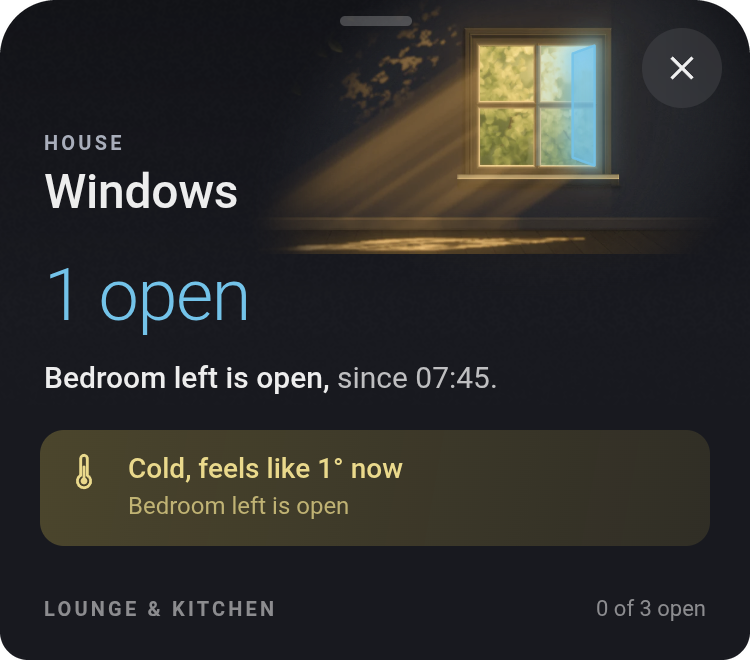
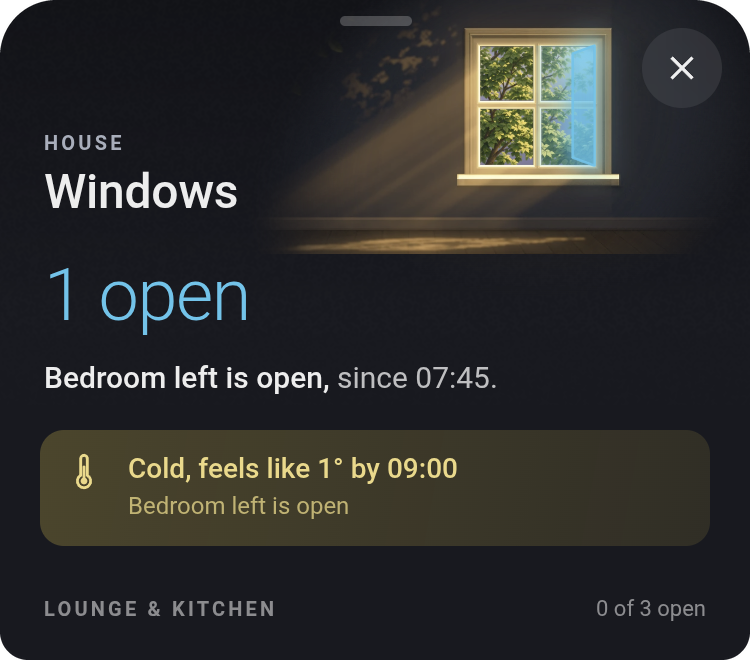
House window card: own foliage, softer cloud, bluer night (#5)
* House windows picture follows the weather

The whole-home windows pop-up now shows the weather through the tree
outside the window: sun through the leaves on a clear day, a grey room
under cloud, drops on the glass, snow on the sill and mist in fog. At
night the moon shows through the leaves only when the sky is clear. The
PVC frame takes the colour of the picture's light.

- Plate set 4 in dist/lamplight-windows/4/ (39 files, 268 KB).
- lampHeroWxPick and the layered hero in src/93-popup-glyphs.js.
- The pop-up reads the weather entity from the windows card.
- Docs text for the windows and pop-up pages.

* House window: own foliage, softer cloud, bluer night

The whole-home windows picture now uses a new, crisp foliage cut-out
with the weather's sky behind it, in place of the leaves taken from
the old painting.

- Cloud, rain and thunder: deep even green leaves with small, sharp
  gaps of sky, not a pale veil that looked like fog.
- Night: darker leaves against a bluer sky.
- Cloudy floor: the soft light on the boards is lit wood, not a grey
  wash.
- Plate set 7 in dist/lamplight-windows/7/ replaces set 4. A changed
  picture gets a new folder, because browsers keep a picture for 31
  days.
- New pictures of the whole-home windows popup in the docs.

---------

diff --git a/dist/lamplight.js b/dist/lamplight.js
@@ -1,4 +1,4 @@
-/* Lamplight Cards 1.0.1
+/* Lamplight Cards 1.1.2
    Built from src/. Do not edit this file; edit src/ and run build.sh. */
 (function () {
 'use strict';
@@ -13777,15 +13777,52 @@ const LAMP_HERO_FADE = { cx: 262, cy: 74, ax: 1.7, ay: 1.25, rot: Math.atan2(1, 
 const LAMP_HERO_FADE_LEAF = { cx: 164, cy: 64, a: 156, b: 172 };
 const LAMP_HERO_FADE_EASE = [[0, 1], [0.15, 0.97], [0.3, 0.88], [0.45, 0.72], [0.6, 0.5], [0.75, 0.27], [0.88, 0.1], [1, 0]];
 
+// The House picture with the weather (27 Nov 2026, option 6d of design-docs/windows_house_sky_options.html). Plate set 4
+// is plate set 3 taken apart (lamplight-build/tools/house_plates4_build.py), so that the weather changes its light:
+// - the glass: the plate's own leaves, toned by the weather, with the weather's light behind them; by day on a clear or
+//   fair sky the sun shines through. One file for each sky and light, named as the weather plates, so lampPlateChoose
+//   crossfades them as it does the skies;
+// - the room: sunlit on a clear sky, 60% sunlit on a fair sky, grey (soft, even light, no beams) under cloud, rain, snow
+//   and fog. By night the moonbeams draw only on a clear or fair sky. The frame is white paint in the picture's light,
+//   in its key: honey by day, peach under cloud, moon-blue by night;
+// - drops on the glass in rain and thunder, snow on the panes and the sill, mist in fog;
+// - by night the moon shows only where the light shows through the leaves (moon-mask.png), with a soft glow round it.
+// The elevation tint follows the sun's share: none under cloud. File px: glass 818-1012 x 75-277, marks 780-1054 x 45-311.
+const LAMP_HERO_WX_SET = '7';
+const LAMP_HERO_WX = { file: [1270, 423], glass: [818, 75, 194, 202], marks: [780, 45, 274, 266], sun: { clear: 1, fair: 0.6 },
+  mark: { rain: 'rain', thunder: 'rain', snow: 'snow', fog: 'fog' }, glow: 0.3 };
+function lampHeroWxPick(base, state, elev, night) {
+  const X = LAMP_HERO_WX, pick = lampPlateChoose(state, elev, base + 'glass/'), cond = pick.plate;
+  const sun = night ? 0 : (X.sun[cond] || 0), lit = !!X.sun[cond];
+  const rooms = night ? [base + 'room-night-' + (lit ? 'sun' : 'grey') + '.webp'] : sun >= 1 ? [base + 'room-day-sun.webp'] :
+    sun <= 0 ? [base + 'room-day-grey.webp'] : [base + 'room-day-grey.webp', base + 'room-day-sun.webp'];
+  const mk = X.mark[cond] ? base + 'marks-' + X.mark[cond] + '-' + (night ? 'night' : 'day') + '.webp' : null;
+  const mask = night && lit ? base + 'moon-mask.png' : null;
+  const files = [pick.urlA].concat(pick.urlB ? [pick.urlB] : [], rooms, mk ? [mk] : [], mask ? [mask] : []);
+  return { cond: cond, sun: sun, lit: lit, glassA: pick.urlA, glassB: pick.urlB, t: pick.t, rooms: rooms, marks: mk, mask: mask, files: files,
+    key: pick.key + '|' + rooms.join(',') + '|' + (mk || '') };
+}
+
 function lampHeroPlate(o) {
   const k = lampHeroKit(o), f = k.f, id = o.id, day = !o.night, W = o.W, P = LAMP_HERO_PLATE;
   const add = ' style="mix-blend-mode:plus-lighter"';
   const dx = W - P.width, sx = function (x) { return dx + x * P.scale; }, sy = function (y) { return y * P.scale; };
   const gx0 = sx(P.left), gx1 = sx(P.right), gy0 = sy(P.glassTop), gy1 = sy(P.midBar), gy2 = sy(P.glassFoot);
-  const im = '<image href="' + o.url + '" x="' + dx + '" y="0" width="' + P.width + '" height="' + P.height + '" preserveAspectRatio="none"/>';
+  let im = '<image href="' + o.url + '" x="' + dx + '" y="0" width="' + P.width + '" height="' + P.height + '" preserveAspectRatio="none"/>';
+  const X = LAMP_HERO_WX, wx = o.wx;
+  const wxX = function (x) { return dx + x * P.width / X.file[0]; }, wxY = function (y) { return y * P.height / X.file[1]; };
+  const box = function (href, r, op) {
+    return '<image href="' + href + '" x="' + f(wxX(r[0])) + '" y="' + f(wxY(r[1])) + '" width="' + f(r[2] * P.width / X.file[0]) + '" height="' + f(r[3] * P.height / X.file[1]) +
+      '" preserveAspectRatio="none"' + (op != null ? ' opacity="' + f(op) + '"' : '') + '/>';
+  };
+  if (wx) {
+    // The glass under the room; the room's glass is transparent but for the frame's shade on it.
+    const full = function (href, op) { return '<image href="' + href + '" x="' + dx + '" y="0" width="' + P.width + '" height="' + P.height + '" preserveAspectRatio="none"' + (op != null ? ' opacity="' + f(op) + '"' : '') + '/>'; };
+    im = box(wx.glassA, X.glass) + (wx.glassB ? box(wx.glassB, X.glass, wx.t) : '') + full(wx.rooms[0]) + (wx.rooms[1] ? full(wx.rooms[1], wx.sun) : '');
+  }
 
   let top = '', extra = '';
-  if (!day) {
+  if (!day && (!wx || wx.lit)) {
     // The moon: the same drawing as lampHeroSun's, in the plate's right panes. The plate holds no moon.
     const dX = gx0 + (gx1 - gx0) * 0.55, dY = gy1 - (gy1 - gy0) * (0.3 + 0.4 * Math.sin(Math.PI * Math.max(0, Math.min(1, o.frac))));
     const r = P.moon, rs = r + 0.3, phase = o.phase == null ? 1 : o.phase, ex = rs * Math.abs(1 - 2 * phase);
@@ -13796,6 +13833,15 @@ function lampHeroPlate(o) {
       '<circle cx="' + f(dX) + '" cy="' + f(dY) + '" r="' + r + '" fill="rgb(' + LAMP_HERO_SILVER + ')"/>' +
       (phase < 0.995 ? '<path' + turn + ' d="M' + f(dX) + ' ' + f(dY - rs) + 'A' + rs + ' ' + rs + ' 0 0 1 ' + f(dX) + ' ' + f(dY + rs) +
         'A' + f(Math.max(ex, 0.01)) + ' ' + rs + ' 0 0 ' + (phase < 0.5 ? 1 : 0) + ' ' + f(dX) + ' ' + f(dY - rs) + 'Z" fill="rgb(' + P.nightSky + ')" fill-opacity=".96"/>' : '');
+    if (wx && wx.mask) {
+      // Behind the leaves the moon shows only through the gaps; its light glows over the leaves round it.
+      const g = X.glass, gx = wxX(g[0]), gy = wxY(g[1]), gw = g[2] * P.width / X.file[0], gh = g[3] * P.height / X.file[1];
+      extra += '<mask id="' + id + 'mm" maskUnits="userSpaceOnUse" x="0" y="0" width="' + W + '" height="' + P.height + '">' + box(wx.mask, g) + '</mask>' +
+        '<clipPath id="' + id + 'mg"><rect x="' + f(gx) + '" y="' + f(gy) + '" width="' + f(gw) + '" height="' + f(gh) + '"/></clipPath>' +
+        '<radialGradient id="' + id + 'mb"><stop offset="0" stop-color="rgb(180,204,240)" stop-opacity="1"/><stop offset="1" stop-color="rgb(180,204,240)" stop-opacity="0"/></radialGradient>';
+      top = '<g clip-path="url(#' + id + 'mg)"><circle cx="' + f(dX) + '" cy="' + f(dY) + '" r="14" fill="url(#' + id + 'mb)" fill-opacity="' + f(X.glow * Math.max(0.3, phase) * (wx.cond === 'clear' ? 1 : 0.6)) + '"' + add + '/></g>' +
+        '<g mask="url(#' + id + 'mm)">' + top + '</g>';
+    }
   }
   if (o.open) {
     // The open casement over the right panes: open-blue glass, and a glowing outline.
@@ -13808,7 +13854,7 @@ function lampHeroPlate(o) {
   let tint = '';
   if (day) {
     const up = Math.max(0, Math.min(60, o.elev || 0)) / 60, e = o.elev || 0;
-    const t = Math.min(1, Math.abs(e - P.sunElev) / 18) * (e < P.sunElev ? 0.8 : 0.45);
+    const t = Math.min(1, Math.abs(e - P.sunElev) / 18) * (e < P.sunElev ? 0.8 : 0.45) * (wx ? wx.sun : 1);
     if (t > 0.01) {
       extra += '<mask id="' + id + 'tm" maskUnits="userSpaceOnUse" x="0" y="0" width="' + W + '" height="' + P.height + '">' + im + '</mask>';
       tint = '<rect x="0" y="0" width="' + W + '" height="' + P.height + '" fill="rgb(' + lampArcAt(LAMP_HERO_SUN_GLASS, up) + ')" fill-opacity="' + f(t) +
@@ -13866,7 +13912,8 @@ function lampHeroPlate(o) {
   const satv = +(P.saturate * (1 - (1 - P.sunsetSat) * sunK)).toFixed(3);
   const calm = satv !== 1;
   if (calm) extra += '<filter id="' + id + 'ps" filterUnits="userSpaceOnUse" x="0" y="0" width="' + W + '" height="' + P.height + '" color-interpolation-filters="sRGB"><feColorMatrix type="saturate" values="' + satv + '"/></filter>';
-  const svg = k.svg(k.defs(extra) + '<g mask="url(#' + id + 'tf)"><g' + (calm ? ' filter="url(#' + id + 'ps)"' : '') + ' style="isolation:isolate">' + im + tint + '</g></g>' + top);
+  const marks = wx && wx.marks ? box(wx.marks, X.marks) : '';
+  const svg = k.svg(k.defs(extra) + '<g mask="url(#' + id + 'tf)"><g' + (calm ? ' filter="url(#' + id + 'ps)"' : '') + ' style="isolation:isolate">' + im + tint + marks + '</g></g>' + top);
   return { svg: svg, x: sx(P.windowX), y: 60, at: day ? '255,214,160' : '150,178,235' };
 }
 
@@ -14285,6 +14332,10 @@ class LampPopup extends HTMLElement {
     this._heroPlates = this._hero && (this._hero.form === 'sun' || this._hero.form === 'panes') ? plates : null;
     // Load both now, so that the first opening of the sheet does not show the drawing first.
     if (this._heroPlates) { lampHeroImage(this._heroPlates.day); lampHeroImage(this._heroPlates.night); }
+    // The House picture with the weather (option 6d, see LAMP_HERO_WX in 93-popup-glyphs.js): only with the cards' own
+    // plates. Header images of one's own keep the plain day and night picture.
+    this._heroWx = this._hero && this._hero.form === 'sun' && hp === undefined ? LAMP_SKY_BASE + 'lamplight-windows/' + LAMP_HERO_WX_SET + '/' : null;
+    if (this._heroWx) ['room-day-sun.webp', 'room-day-grey.webp', 'room-night-sun.webp', 'room-night-grey.webp'].forEach((n) => lampHeroImage(this._heroWx + n));
     this._heroKey = null;
     this._heroData = null;
     this._heroBusy = false;
@@ -14760,12 +14811,24 @@ class LampPopup extends HTMLElement {
           : 'e' + Math.round(elev * 2);
         const plate = this._heroPlates ? (night ? this._heroPlates.night : this._heroPlates.day) : null;
         if (plate && !this._onPlate) this._onPlate = () => { this._heroKey = null; if (this._open) this._paintHero(); };
+        // The weather (27 Nov 2026, option 6d of design-docs/windows_house_sky_options.html): the House card's weather
+        // entity gives the sky; the picture's light, glass and marks follow it. While its files load, the plain plate draws.
+        let wx = null;
+        if (this._heroWx) {
+          const wxId = this._config.weather || c.weather || Object.keys(hass.states).filter((id) => id.indexOf('weather.') === 0)[0];
+          const ws = wxId ? hass.states[wxId] : null;
+          if (ws) {
+            wx = lampHeroWxPick(this._heroWx, ws.state, Math.round(elev * 2) / 2, night);
+            const all = wx.files.map((u) => lampHeroImage(u, this._onPlate));
+            if (all.indexOf(false) >= 0) wx = null;
+          }
+        }
         const painted = plate ? lampHeroImage(plate, this._onPlate) : false;
         const tEnd = Math.round(this._titleEnd()), text = this._textInk();
         const ink = text.map((b) => [b.l, b.r, b.t, b.b].map(Math.round).join(',')).join(';');
-        key = [W, left, 'sun', night ? 1 : 0, step, open ? 1 : 0, painted ? plate + '|' + ink : ''].join('|');
+        key = [W, left, 'sun', night ? 1 : 0, step, open ? 1 : 0, painted ? plate + '|' + ink : '', wx ? wx.key : ''].join('|');
         const light = { frac: frac, elev: elev, night: night, open: open, phase: moon.phase, waning: moon.waning };
-        make = painted ? () => lampHeroPlate(Object.assign(o, light, { url: plate, tEnd: tEnd, text: text })) : () => lampHeroSun(Object.assign(o, light));
+        make = painted ? () => lampHeroPlate(Object.assign(o, light, { url: plate, tEnd: tEnd, text: text, wx: wx })) : () => lampHeroSun(Object.assign(o, light));
       }
     }
     if (key === this._heroKey) return;
@@ -18661,5 +18724,5 @@ function lampApplyTheme(el, config) {
   Card.prototype._lampThemeHook = true;
 });
 
-console.info('%c LAMPLIGHT %c 1.0.1 ', 'background:#231a12;color:#ffb35c;border-radius:3px 0 0 3px', 'background:#ffb35c;color:#231a12;border-radius:0 3px 3px 0');
+console.info('%c LAMPLIGHT %c 1.1.2 ', 'background:#231a12;color:#ffb35c;border-radius:3px 0 0 3px', 'background:#ffb35c;color:#231a12;border-radius:0 3px 3px 0');
 })();

diff --git a/src/93-popup-glyphs.js b/src/93-popup-glyphs.js
@@ -1488,15 +1488,52 @@ const LAMP_HERO_FADE = { cx: 262, cy: 74, ax: 1.7, ay: 1.25, rot: Math.atan2(1, 
 const LAMP_HERO_FADE_LEAF = { cx: 164, cy: 64, a: 156, b: 172 };
 const LAMP_HERO_FADE_EASE = [[0, 1], [0.15, 0.97], [0.3, 0.88], [0.45, 0.72], [0.6, 0.5], [0.75, 0.27], [0.88, 0.1], [1, 0]];
 
+// The House picture with the weather (27 Nov 2026, option 6d of design-docs/windows_house_sky_options.html). Plate set 4
+// is plate set 3 taken apart (lamplight-build/tools/house_plates4_build.py), so that the weather changes its light:
+// - the glass: the plate's own leaves, toned by the weather, with the weather's light behind them; by day on a clear or
+//   fair sky the sun shines through. One file for each sky and light, named as the weather plates, so lampPlateChoose
+//   crossfades them as it does the skies;
+// - the room: sunlit on a clear sky, 60% sunlit on a fair sky, grey (soft, even light, no beams) under cloud, rain, snow
+//   and fog. By night the moonbeams draw only on a clear or fair sky. The frame is white paint in the picture's light,
+//   in its key: honey by day, peach under cloud, moon-blue by night;
+// - drops on the glass in rain and thunder, snow on the panes and the sill, mist in fog;
+// - by night the moon shows only where the light shows through the leaves (moon-mask.png), with a soft glow round it.
+// The elevation tint follows the sun's share: none under cloud. File px: glass 818-1012 x 75-277, marks 780-1054 x 45-311.
+const LAMP_HERO_WX_SET = '7';
+const LAMP_HERO_WX = { file: [1270, 423], glass: [818, 75, 194, 202], marks: [780, 45, 274, 266], sun: { clear: 1, fair: 0.6 },
+  mark: { rain: 'rain', thunder: 'rain', snow: 'snow', fog: 'fog' }, glow: 0.3 };
+function lampHeroWxPick(base, state, elev, night) {
+  const X = LAMP_HERO_WX, pick = lampPlateChoose(state, elev, base + 'glass/'), cond = pick.plate;
+  const sun = night ? 0 : (X.sun[cond] || 0), lit = !!X.sun[cond];
+  const rooms = night ? [base + 'room-night-' + (lit ? 'sun' : 'grey') + '.webp'] : sun >= 1 ? [base + 'room-day-sun.webp'] :
+    sun <= 0 ? [base + 'room-day-grey.webp'] : [base + 'room-day-grey.webp', base + 'room-day-sun.webp'];
+  const mk = X.mark[cond] ? base + 'marks-' + X.mark[cond] + '-' + (night ? 'night' : 'day') + '.webp' : null;
+  const mask = night && lit ? base + 'moon-mask.png' : null;
+  const files = [pick.urlA].concat(pick.urlB ? [pick.urlB] : [], rooms, mk ? [mk] : [], mask ? [mask] : []);
+  return { cond: cond, sun: sun, lit: lit, glassA: pick.urlA, glassB: pick.urlB, t: pick.t, rooms: rooms, marks: mk, mask: mask, files: files,
+    key: pick.key + '|' + rooms.join(',') + '|' + (mk || '') };
+}
+
 function lampHeroPlate(o) {
   const k = lampHeroKit(o), f = k.f, id = o.id, day = !o.night, W = o.W, P = LAMP_HERO_PLATE;
   const add = ' style="mix-blend-mode:plus-lighter"';
   const dx = W - P.width, sx = function (x) { return dx + x * P.scale; }, sy = function (y) { return y * P.scale; };
   const gx0 = sx(P.left), gx1 = sx(P.right), gy0 = sy(P.glassTop), gy1 = sy(P.midBar), gy2 = sy(P.glassFoot);
-  const im = '<image href="' + o.url + '" x="' + dx + '" y="0" width="' + P.width + '" height="' + P.height + '" preserveAspectRatio="none"/>';
+  let im = '<image href="' + o.url + '" x="' + dx + '" y="0" width="' + P.width + '" height="' + P.height + '" preserveAspectRatio="none"/>';
+  const X = LAMP_HERO_WX, wx = o.wx;
+  const wxX = function (x) { return dx + x * P.width / X.file[0]; }, wxY = function (y) { return y * P.height / X.file[1]; };
+  const box = function (href, r, op) {
+    return '<image href="' + href + '" x="' + f(wxX(r[0])) + '" y="' + f(wxY(r[1])) + '" width="' + f(r[2] * P.width / X.file[0]) + '" height="' + f(r[3] * P.height / X.file[1]) +
+      '" preserveAspectRatio="none"' + (op != null ? ' opacity="' + f(op) + '"' : '') + '/>';
+  };
+  if (wx) {
+    // The glass under the room; the room's glass is transparent but for the frame's shade on it.
+    const full = function (href, op) { return '<image href="' + href + '" x="' + dx + '" y="0" width="' + P.width + '" height="' + P.height + '" preserveAspectRatio="none"' + (op != null ? ' opacity="' + f(op) + '"' : '') + '/>'; };
+    im = box(wx.glassA, X.glass) + (wx.glassB ? box(wx.glassB, X.glass, wx.t) : '') + full(wx.rooms[0]) + (wx.rooms[1] ? full(wx.rooms[1], wx.sun) : '');
+  }
 
   let top = '', extra = '';
-  if (!day) {
+  if (!day && (!wx || wx.lit)) {
     // The moon: the same drawing as lampHeroSun's, in the plate's right panes. The plate holds no moon.
     const dX = gx0 + (gx1 - gx0) * 0.55, dY = gy1 - (gy1 - gy0) * (0.3 + 0.4 * Math.sin(Math.PI * Math.max(0, Math.min(1, o.frac))));
     const r = P.moon, rs = r + 0.3, phase = o.phase == null ? 1 : o.phase, ex = rs * Math.abs(1 - 2 * phase);
@@ -1507,6 +1544,15 @@ function lampHeroPlate(o) {
       '<circle cx="' + f(dX) + '" cy="' + f(dY) + '" r="' + r + '" fill="rgb(' + LAMP_HERO_SILVER + ')"/>' +
       (phase < 0.995 ? '<path' + turn + ' d="M' + f(dX) + ' ' + f(dY - rs) + 'A' + rs + ' ' + rs + ' 0 0 1 ' + f(dX) + ' ' + f(dY + rs) +
         'A' + f(Math.max(ex, 0.01)) + ' ' + rs + ' 0 0 ' + (phase < 0.5 ? 1 : 0) + ' ' + f(dX) + ' ' + f(dY - rs) + 'Z" fill="rgb(' + P.nightSky + ')" fill-opacity=".96"/>' : '');
+    if (wx && wx.mask) {
+      // Behind the leaves the moon shows only through the gaps; its light glows over the leaves round it.
+      const g = X.glass, gx = wxX(g[0]), gy = wxY(g[1]), gw = g[2] * P.width / X.file[0], gh = g[3] * P.height / X.file[1];
+      extra += '<mask id="' + id + 'mm" maskUnits="userSpaceOnUse" x="0" y="0" width="' + W + '" height="' + P.height + '">' + box(wx.mask, g) + '</mask>' +
+        '<clipPath id="' + id + 'mg"><rect x="' + f(gx) + '" y="' + f(gy) + '" width="' + f(gw) + '" height="' + f(gh) + '"/></clipPath>' +
+        '<radialGradient id="' + id + 'mb"><stop offset="0" stop-color="rgb(180,204,240)" stop-opacity="1"/><stop offset="1" stop-color="rgb(180,204,240)" stop-opacity="0"/></radialGradient>';
+      top = '<g clip-path="url(#' + id + 'mg)"><circle cx="' + f(dX) + '" cy="' + f(dY) + '" r="14" fill="url(#' + id + 'mb)" fill-opacity="' + f(X.glow * Math.max(0.3, phase) * (wx.cond === 'clear' ? 1 : 0.6)) + '"' + add + '/></g>' +
+        '<g mask="url(#' + id + 'mm)">' + top + '</g>';
+    }
   }
   if (o.open) {
     // The open casement over the right panes: open-blue glass, and a glowing outline.
@@ -1519,7 +1565,7 @@ function lampHeroPlate(o) {
   let tint = '';
   if (day) {
     const up = Math.max(0, Math.min(60, o.elev || 0)) / 60, e = o.elev || 0;
-    const t = Math.min(1, Math.abs(e - P.sunElev) / 18) * (e < P.sunElev ? 0.8 : 0.45);
+    const t = Math.min(1, Math.abs(e - P.sunElev) / 18) * (e < P.sunElev ? 0.8 : 0.45) * (wx ? wx.sun : 1);
     if (t > 0.01) {
       extra += '<mask id="' + id + 'tm" maskUnits="userSpaceOnUse" x="0" y="0" width="' + W + '" height="' + P.height + '">' + im + '</mask>';
       tint = '<rect x="0" y="0" width="' + W + '" height="' + P.height + '" fill="rgb(' + lampArcAt(LAMP_HERO_SUN_GLASS, up) + ')" fill-opacity="' + f(t) +
@@ -1577,7 +1623,8 @@ function lampHeroPlate(o) {
   const satv = +(P.saturate * (1 - (1 - P.sunsetSat) * sunK)).toFixed(3);
   const calm = satv !== 1;
   if (calm) extra += '<filter id="' + id + 'ps" filterUnits="userSpaceOnUse" x="0" y="0" width="' + W + '" height="' + P.height + '" color-interpolation-filters="sRGB"><feColorMatrix type="saturate" values="' + satv + '"/></filter>';
-  const svg = k.svg(k.defs(extra) + '<g mask="url(#' + id + 'tf)"><g' + (calm ? ' filter="url(#' + id + 'ps)"' : '') + ' style="isolation:isolate">' + im + tint + '</g></g>' + top);
+  const marks = wx && wx.marks ? box(wx.marks, X.marks) : '';
+  const svg = k.svg(k.defs(extra) + '<g mask="url(#' + id + 'tf)"><g' + (calm ? ' filter="url(#' + id + 'ps)"' : '') + ' style="isolation:isolate">' + im + tint + marks + '</g></g>' + top);
   return { svg: svg, x: sx(P.windowX), y: 60, at: day ? '255,214,160' : '150,178,235' };
 }
 

diff --git a/src/94-popup.js b/src/94-popup.js
@@ -135,6 +135,10 @@ class LampPopup extends HTMLElement {
     this._heroPlates = this._hero && (this._hero.form === 'sun' || this._hero.form === 'panes') ? plates : null;
     // Load both now, so that the first opening of the sheet does not show the drawing first.
     if (this._heroPlates) { lampHeroImage(this._heroPlates.day); lampHeroImage(this._heroPlates.night); }
+    // The House picture with the weather (option 6d, see LAMP_HERO_WX in 93-popup-glyphs.js): only with the cards' own
+    // plates. Header images of one's own keep the plain day and night picture.
+    this._heroWx = this._hero && this._hero.form === 'sun' && hp === undefined ? LAMP_SKY_BASE + 'lamplight-windows/' + LAMP_HERO_WX_SET + '/' : null;
+    if (this._heroWx) ['room-day-sun.webp', 'room-day-grey.webp', 'room-night-sun.webp', 'room-night-grey.webp'].forEach((n) => lampHeroImage(this._heroWx + n));
     this._heroKey = null;
     this._heroData = null;
     this._heroBusy = false;
@@ -610,12 +614,24 @@ class LampPopup extends HTMLElement {
           : 'e' + Math.round(elev * 2);
         const plate = this._heroPlates ? (night ? this._heroPlates.night : this._heroPlates.day) : null;
         if (plate && !this._onPlate) this._onPlate = () => { this._heroKey = null; if (this._open) this._paintHero(); };
+        // The weather (27 Nov 2026, option 6d of design-docs/windows_house_sky_options.html): the House card's weather
+        // entity gives the sky; the picture's light, glass and marks follow it. While its files load, the plain plate draws.
+        let wx = null;
+        if (this._heroWx) {
+          const wxId = this._config.weather || c.weather || Object.keys(hass.states).filter((id) => id.indexOf('weather.') === 0)[0];
+          const ws = wxId ? hass.states[wxId] : null;
+          if (ws) {
+            wx = lampHeroWxPick(this._heroWx, ws.state, Math.round(elev * 2) / 2, night);
+            const all = wx.files.map((u) => lampHeroImage(u, this._onPlate));
+            if (all.indexOf(false) >= 0) wx = null;
+          }
+        }
         const painted = plate ? lampHeroImage(plate, this._onPlate) : false;
         const tEnd = Math.round(this._titleEnd()), text = this._textInk();
         const ink = text.map((b) => [b.l, b.r, b.t, b.b].map(Math.round).join(',')).join(';');
-        key = [W, left, 'sun', night ? 1 : 0, step, open ? 1 : 0, painted ? plate + '|' + ink : ''].join('|');
+        key = [W, left, 'sun', night ? 1 : 0, step, open ? 1 : 0, painted ? plate + '|' + ink : '', wx ? wx.key : ''].join('|');
         const light = { frac: frac, elev: elev, night: night, open: open, phase: moon.phase, waning: moon.waning };
-        make = painted ? () => lampHeroPlate(Object.assign(o, light, { url: plate, tEnd: tEnd, text: text })) : () => lampHeroSun(Object.assign(o, light));
+        make = painted ? () => lampHeroPlate(Object.assign(o, light, { url: plate, tEnd: tEnd, text: text, wx: wx })) : () => lampHeroSun(Object.assign(o, light));
       }
     }
     if (key === this._heroKey) return;

diff --git a/docs/cards/windows.md b/docs/cards/windows.md
@@ -190,19 +190,22 @@ open, the first line names it. If the weather is good, it adds how long it will 
 These are the same four evening states for the whole home:
 
 <p align="center">
-  <img src="../images/windows-house-states.png" alt="The whole-home windows popup four times: all closed; the lounge left window open on a mild evening, dry until 02:00; open with a cold band; and open with an amber wind warning band" width="560">
+  <img src="../images/windows-house-states.png" alt="The whole-home windows popup four times: all closed; the lounge left window open on a mild evening, dry until 05:00; open with a cold band; and open with an amber wind warning band" width="560">
 </p>
 
 ### The weather in the window popups
 
 The window popups show you the weather outside, and they are one of the best parts of Lamplight.
 
-The picture at the top has the light from outside. On the whole-home popup, sunlight falls into the
-room at the sun's real height and turns golden near sunset. At night there is moonlight, with the
-actual moon phase for that night.
+The picture at the top has the light from outside. On the whole-home popup you look into a room with
+a tree right outside the window, and the weather comes in through its leaves. When it's sunny the sun
+shines through and lays its light across the floor. It turns golden near sunset. On a grey day there's
+no sun and the room goes soft and dim. Rain leaves drops on the glass and fog mists the panes. Snow
+piles up on the sill. At night the moon peeks through the leaves in its real phase, as long as the sky
+is clear.
 
 <p align="center">
-  <img src="../images/window-weather-house.png" alt="The top of the whole-home windows popup by day, with sunlight falling through the window, and at night, with moonlight" width="560">
+  <img src="../images/window-weather-house.png" alt="The top of the whole-home windows popup three times: sun through the leaves on a clear day, raindrops on the glass and a dim grey room when it rains, and the moon through the leaves on a clear night" width="760">
 </p>
 
 On a room's popup you look out through the window panes at the sky. When it's clear, or there are

diff --git a/docs/cards/popups.md b/docs/cards/popups.md
@@ -76,7 +76,7 @@ With `header_art: live`, the picture at the top of the sheet is made from the ca
 | `lamplight-purifier-detail` | A trace of the last 24 hours of air quality |
 | `lamplight-batteries` | The batteries, each filled to its level |
 | `lamplight-windows-detail` (one room) | The sky through the window panes, with the sun or moon when it's clear. An open window has a soft blue light in the gap |
-| `lamplight-windows-detail` (whole home) | Sunlight or moonlight falling into the room |
+| `lamplight-windows-detail` (whole home) | A room with a tree outside, and today's weather coming in through the leaves |
 
 The header shows the `icon` until the data arrives.
 
